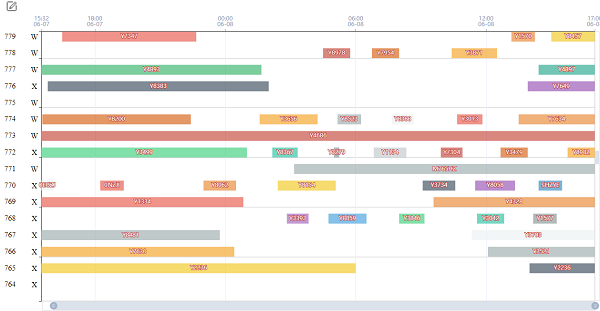
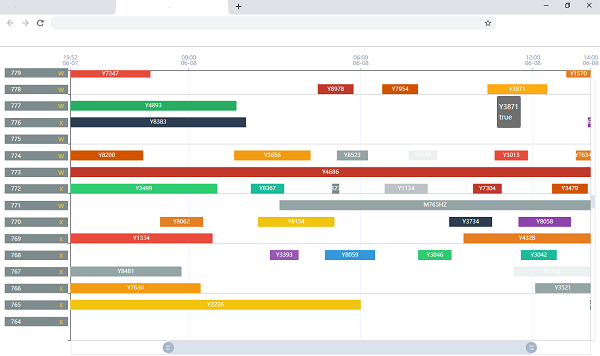
ditch toolbox and widen y axis labels

diff --git a/custom-gantt-flight.html b/custom-gantt-flight.html
@@ -80,20 +80,6 @@ function makeOption() {
 			} 
         },
         animation: false,
-        toolbox: {
-            left: 20,
-            top: 0,
-            itemSize: 20,
-            feature: {
-                myDrag: {
-                    show: true,
-                    title: 'Make bars\ndraggable',
-                    icon: 'path://M990.55 380.08 q11.69 0 19.88 8.19 q7.02 7.01 7.02 18.71 l0 480.65 q-1.17 43.27 -29.83 71.93 q-28.65 28.65 -71.92 29.82 l-813.96 0 q-43.27 -1.17 -72.5 -30.41 q-28.07 -28.07 -29.24 -71.34 l0 -785.89 q1.17 -43.27 29.24 -72.5 q29.23 -29.24 72.5 -29.24 l522.76 0 q11.7 0 18.71 7.02 q8.19 8.18 8.19 18.71 q0 11.69 -7.6 19.29 q-7.6 7.61 -19.3 7.61 l-518.08 0 q-22.22 1.17 -37.42 16.37 q-15.2 15.2 -15.2 37.42 l0 775.37 q0 23.39 15.2 38.59 q15.2 15.2 37.42 15.2 l804.6 0 q22.22 0 37.43 -15.2 q15.2 -15.2 16.37 -38.59 l0 -474.81 q0 -11.7 7.02 -18.71 q8.18 -8.19 18.71 -8.19 l0 0 ZM493.52 723.91 l-170.74 -170.75 l509.89 -509.89 q23.39 -23.39 56.13 -21.05 q32.75 1.17 59.65 26.9 l47.94 47.95 q25.73 26.89 27.49 59.64 q1.75 32.75 -21.64 57.3 l-508.72 509.9 l0 0 ZM870.09 80.69 l-56.13 56.14 l94.72 95.9 l56.14 -57.31 q8.19 -9.35 8.19 -21.05 q-1.17 -12.86 -10.53 -22.22 l-47.95 -49.12 q-10.52 -9.35 -23.39 -9.35 q-11.69 -1.17 -21.05 7.01 l0 0 ZM867.75 272.49 l-93.56 -95.9 l-380.08 380.08 l94.73 94.73 l378.91 -378.91 l0 0 ZM322.78 553.16 l38.59 39.77 l-33.92 125.13 l125.14 -33.92 l38.59 38.6 l-191.79 52.62 q-5.85 1.17 -12.28 0 q-6.44 -1.17 -11.11 -5.84 q-4.68 -4.68 -5.85 -11.7 q-2.34 -5.85 0 -11.69 l52.63 -192.97 l0 0 Z',
-                    onclick: onDragSwitchClick
-                }
-            }
-        },
-
         dataZoom: [{
             type: 'slider',
             xAxisIndex: 0,
@@ -138,9 +124,9 @@ function makeOption() {
         }],
         grid: {
             show: true,
-            top: 70,
+            top: 50,
             bottom: 30,
-            left: 100,
+            left: 150,
             right: 20,
             backgroundColor: '#fff',
             borderWidth: 1
@@ -243,7 +229,7 @@ console.log(api);
             type: 'rect',
             shape: rectNormal,
             style: api.style(
-				{opacity: '0.7', 
+				{opacity: '1.0', // set to 0.7 if you want to see overlapping bars
 				 fill: flightColour})
         }, /*{
             type: 'rect',
@@ -286,12 +272,12 @@ function renderAxisLabelItem(params, api) {
                 d: 'M0,0 L0,-20 L38,-20 38,0 Z',
                 x: 0,
                 y: -20,
-                width: 60,
+                width: 135,
                 height: 20,
                 layout: 'cover'
             },
             style: {
-                fill: '#368c6c'
+                fill: '#7f8c8d'
             }
         }, {
             type: 'text',
@@ -307,12 +293,12 @@ function renderAxisLabelItem(params, api) {
         }, {
             type: 'text',
             style: {
-                x: 75,
+                x: 120,
                 y: -2,
                 textVerticalAlign: 'bottom',
                 textAlign: 'center',
                 text: api.value(2),
-                textFill: '#000',
+                textFill: '#f1c40f',
 				fontFamily: 'Microsoft YaHei'
             }
         }]
@@ -594,11 +580,8 @@ function initDrag() {
             }
         };
     }
-}
-;
-if (option && typeof option === "object") {
-    myChart.setOption(option, true);
-}
+};
+
        </script>
    </body>
 </html>
